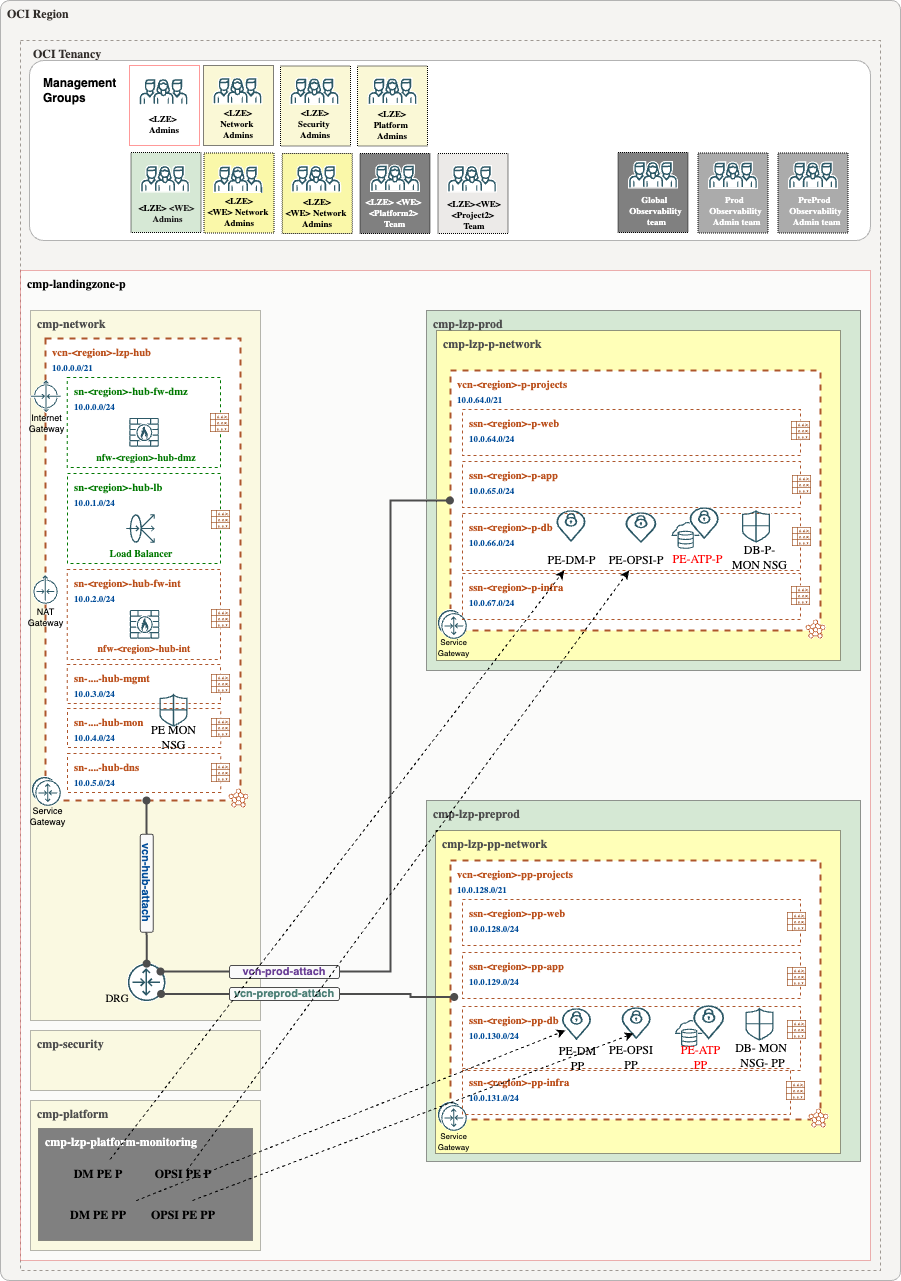
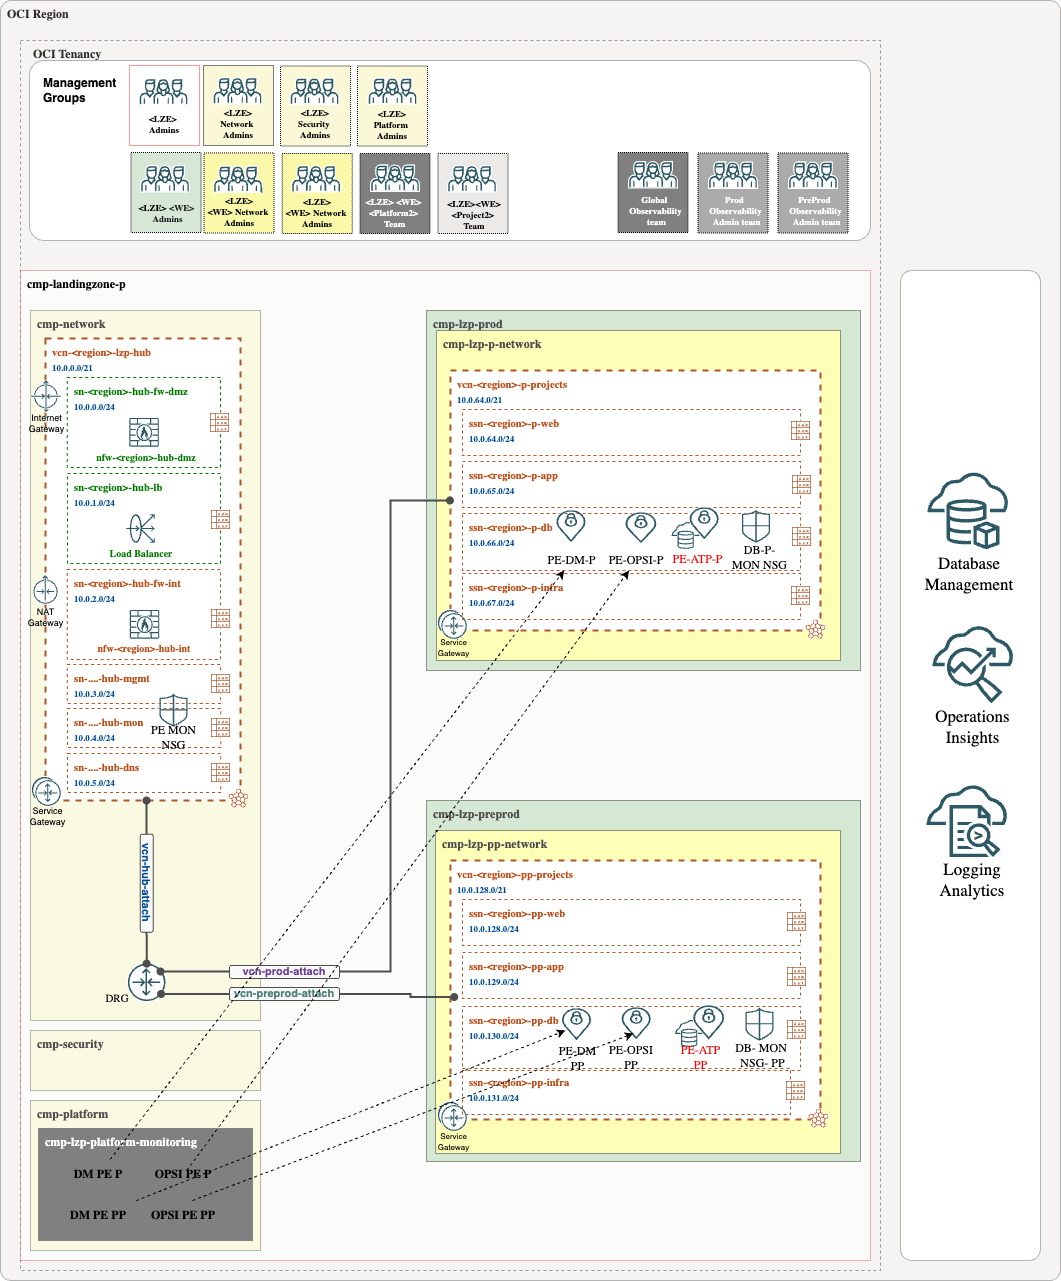
add changes

Changed region(s): [[0.0, 0.2186, 0.9634, 0.9992], [0.0, 0.0, 0.9634, 0.1874]]

diff --git a/addons/oci-native-mon/readme.md b/addons/oci-native-mon/readme.md
@@ -157,17 +157,18 @@ For EXACC, we only have the option of a global approach. We deployed the PE in t
 ## Add-on Implementation
 
 Example how to extend Observability in a Landing Zone for ATP.
+This template includes all cmp, groups, policies and NSGs needed for enabling Database Management, Operations Insights and Logging Analytics.
 
 Step 1. Deploy ONE-OE landing Zone. You can follow nexts [steps](https://github.com/oci-landing-zones/oci-landing-zone-operating-entities/tree/master/blueprints/one-oe/runtime/one-stack)
 
 <img src="./content/ONE-OE.png" height="300" align="center">
 
-Step 2. Add the Observeability layer using the ATP JSNOs files provided in this asset.
+Step 2. Enable Observability adding the Add-on, use the ATP JSONs files provided in this asset. To check step by step how to do it check [here](./AddOnImplementation.md).
 
 <img src="./content/OBS_ADDON.png" height="300" align="center">
 
 > [!NOTE]  
->The ATP PEs are created during databases creation and are not included in the Landing Zone add-on.
+>ATP PEs are created during databases creation and are not included in the Landing Zone add-on.
 
 
 
